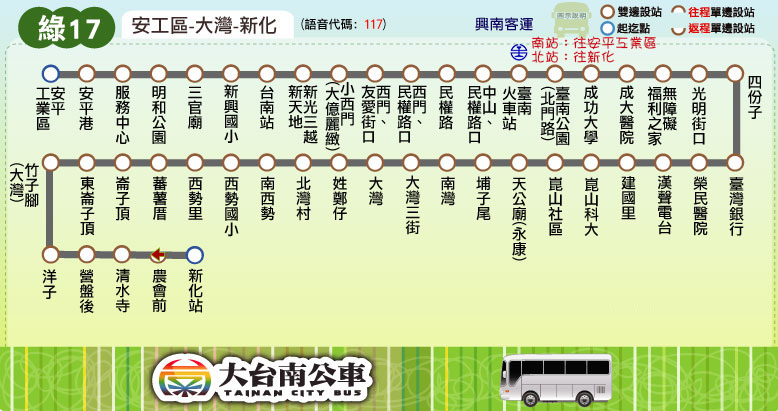
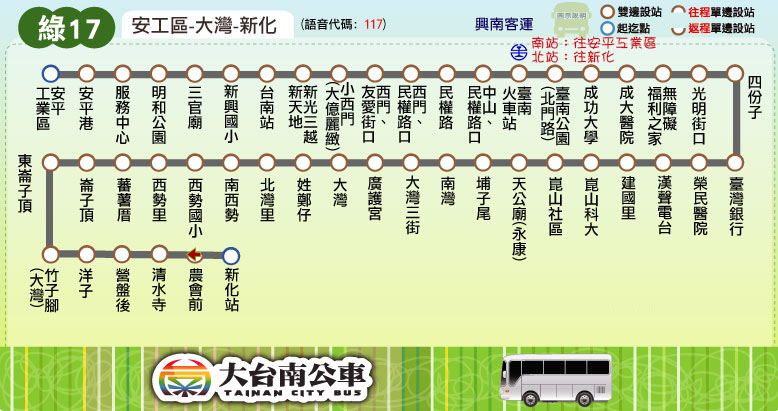
新增站位：綠17(廣護宮)；站位更名：綠17(北灣村->北灣里)

Changed region(s): [[0.0308, 0.4088, 0.4936, 0.7591], [0.0, 0.3796, 0.0617, 0.5255], [0.1234, 0.5839, 0.1542, 0.6131]]

diff --git a/route/fare_and_time/green_17.js b/route/fare_and_time/green_17.js
@@ -4,7 +4,7 @@ green_17_interval_stop = [
 ["臺南站","新光三越新天地","小西門(大億麗緻)","西門、友愛街口","西門、民權路口","民權路","中山、民權路口","臺南火車站","臺南公園(北門路)","成功大學","成大醫院","無障礙福利之家","光明街口"], // 臺南
 ["四份子","臺灣銀行","榮民醫院"], // 網寮
 ["漢聲電台","建國里","崑山科大","崑山社區","天公廟(永康)"], // 崑山科大
-["埔子尾","南灣","大灣三街","大灣","姓鄭仔","北灣村"], // 大灣
+["埔子尾","南灣","大灣三街","廣護宮","大灣","姓鄭仔","北灣里"], // 大灣
 ["南西勢","西勢國小","西勢里","蕃薯厝"], // 西勢里
 ["崙子頂","東崙子頂"], // 崙子頂
 ["竹子腳(大灣)","洋子"], // 洋子
